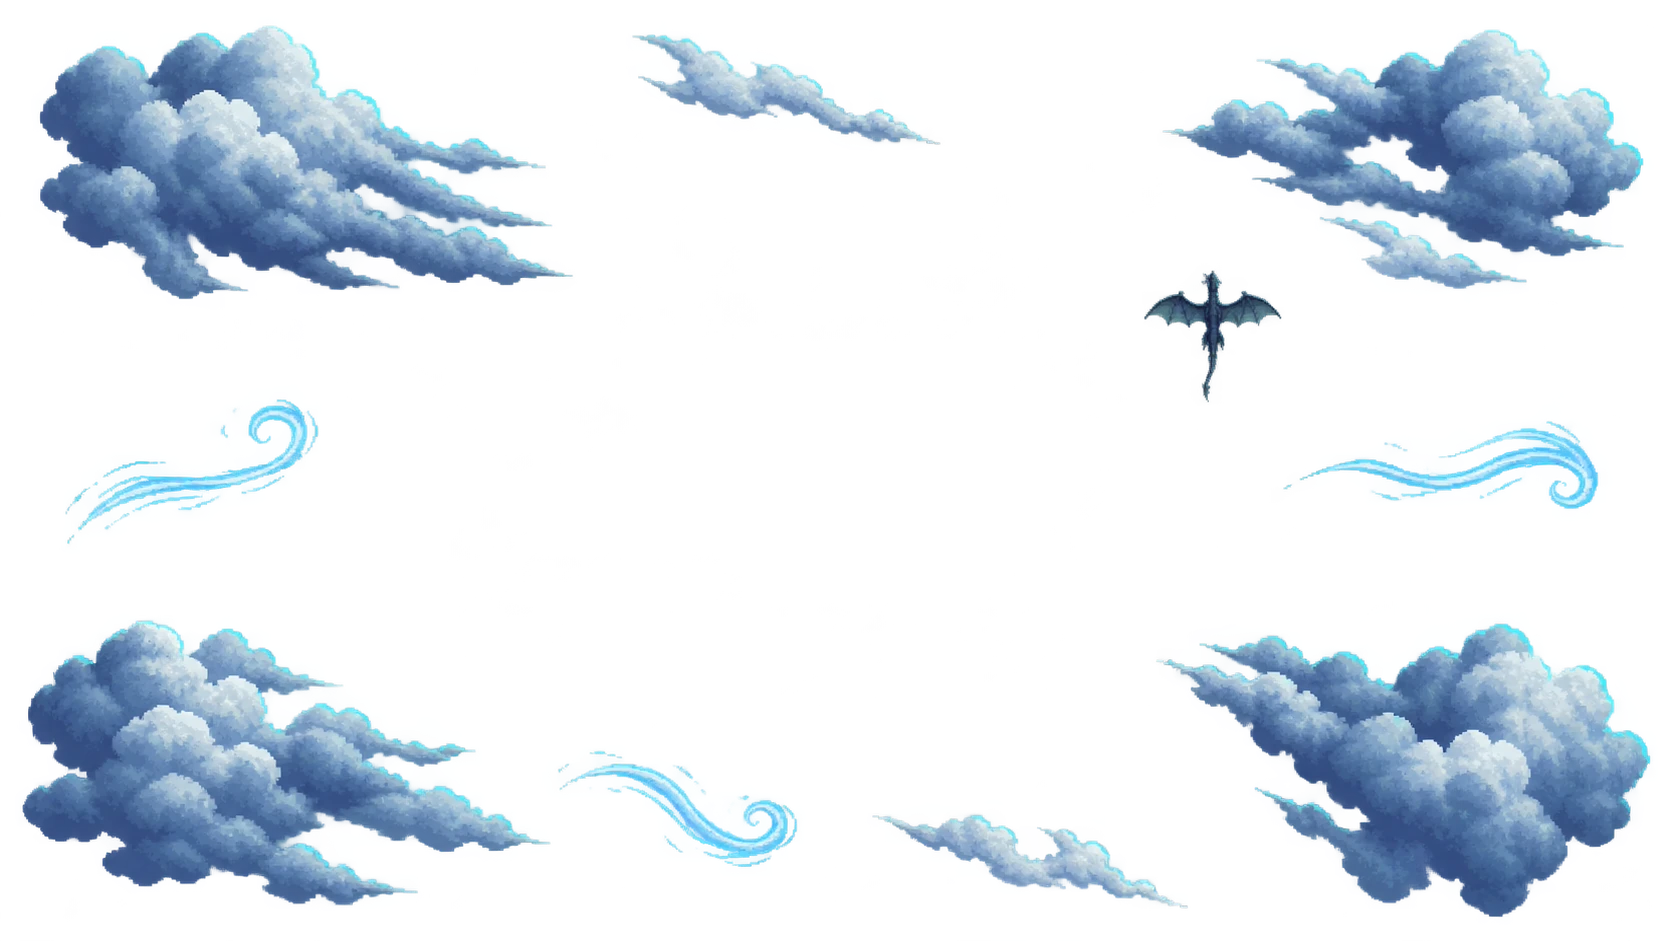
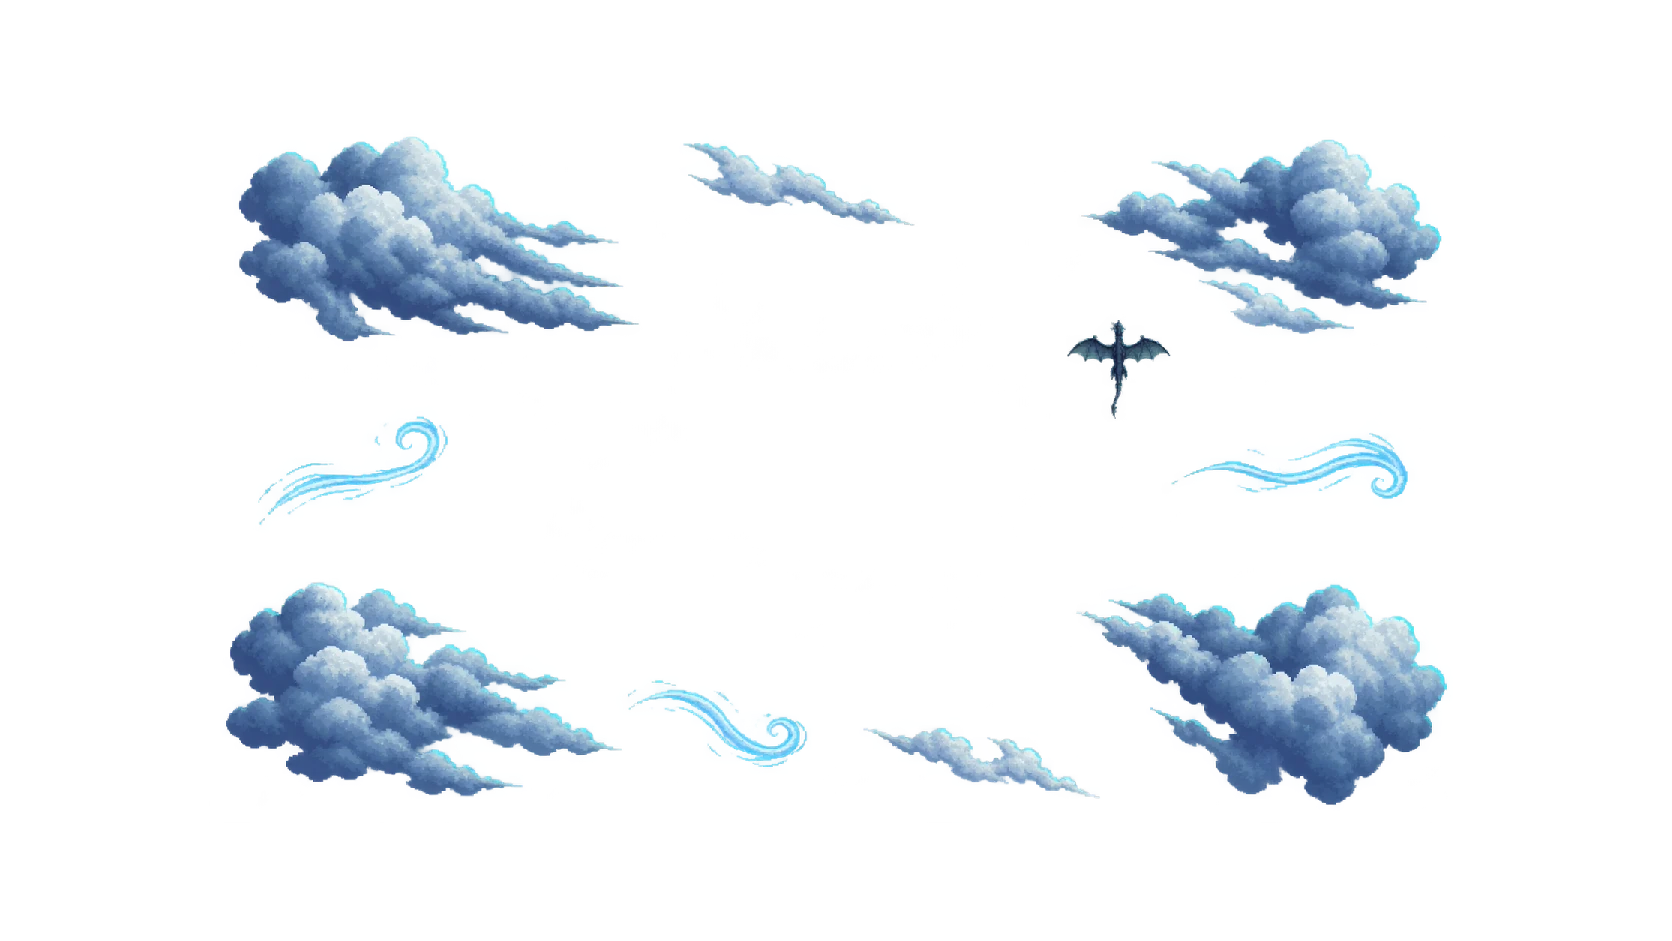
fix: widen layered world view

diff --git a/game.js b/game.js
@@ -1619,7 +1619,7 @@ class Game                    {
       if (!sp?.texture) continue;
       const tw = sp.texture.width || 1, th = sp.texture.height || 1;
       const layered = WORLD_LAYERED_BACKGROUND_IDS.has(this.worldBackgroundId);
-      const extra = sp === this.worldBackgroundMidSprite ? (layered ? 1.18 : 1.12) : 1.08;
+      const extra = sp === this.worldBackgroundMidSprite ? (layered ? 1.06 : 1.12) : (layered ? 1.015 : 1.08);
       const scale = Math.max(w / tw, h / th) * extra;
       sp.scale.set(scale);
       if (sp === this.worldBackgroundFarSprite) this.worldBackgroundFarScale = scale;
@@ -1634,15 +1634,15 @@ class Game                    {
     const driftX = Math.sin((this.cam.x || 0) * 0.045), driftY = Math.sin((this.cam.y || 0) * 0.04);
     const layered = WORLD_LAYERED_BACKGROUND_IDS.has(this.worldBackgroundId);
     if (this.worldBackgroundFarSprite) {
-      const farX = layered ? Math.sin(time * 0.07) * 3 : 0;
-      const farY = layered ? Math.cos(time * 0.055) * 2 : 0;
-      this.worldBackgroundFarSprite.position.set(w / 2 - driftX * 3 + farX, h / 2 - driftY * 2 + farY);
+      const farX = layered ? Math.sin(time * 0.07) * 1.5 : 0;
+      const farY = layered ? Math.cos(time * 0.055) * 1.2 : 0;
+      this.worldBackgroundFarSprite.position.set(w / 2 - driftX * 1.5 + farX, h / 2 - driftY + farY);
       this.worldBackgroundFarSprite.scale.set(this.worldBackgroundFarScale * (layered ? 1 + Math.sin(time * 0.045) * 0.0025 : 1));
     }
     if (this.worldBackgroundMidSprite) {
-      const midX = layered ? Math.sin(time * 0.11 + 0.8) * 16 : 0;
-      const midY = layered ? Math.cos(time * 0.085) * 9 : 0;
-      this.worldBackgroundMidSprite.position.set(w / 2 - driftX * 13 + midX, h / 2 - driftY * 6 + midY);
+      const midX = layered ? Math.sin(time * 0.11 + 0.8) * 10 : 0;
+      const midY = layered ? Math.cos(time * 0.085) * 6 : 0;
+      this.worldBackgroundMidSprite.position.set(w / 2 - driftX * 9 + midX, h / 2 - driftY * 4 + midY);
       this.worldBackgroundMidSprite.scale.set(this.worldBackgroundMidScale * (layered ? 1 + Math.sin(time * 0.08) * 0.006 : 1));
       if (layered) this.worldBackgroundMidSprite.alpha = 0.39 + Math.sin(time * 0.17) * 0.03;
     }
